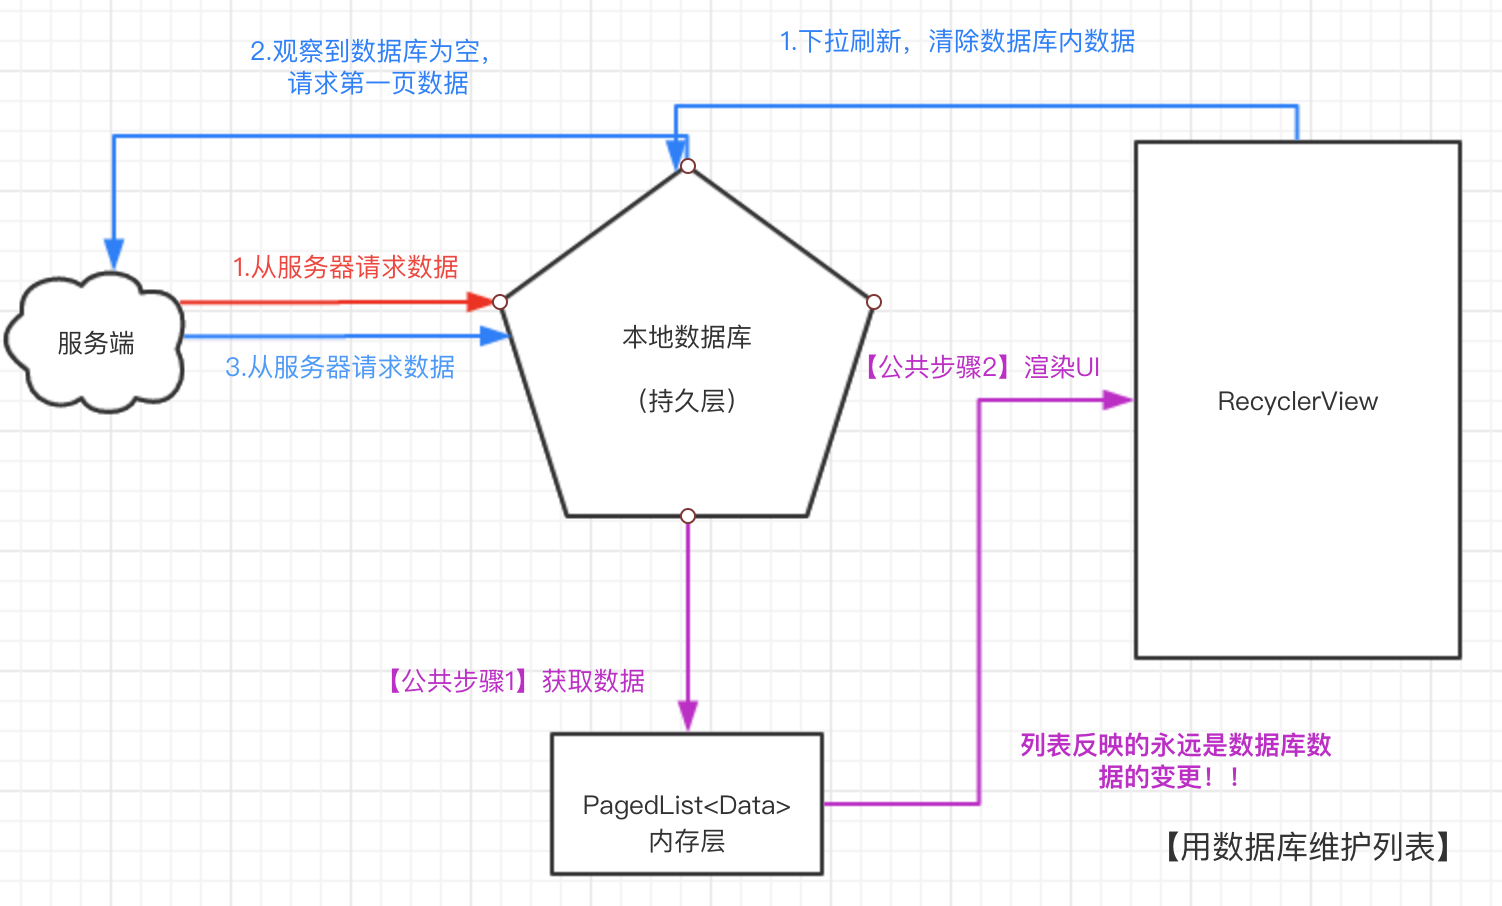
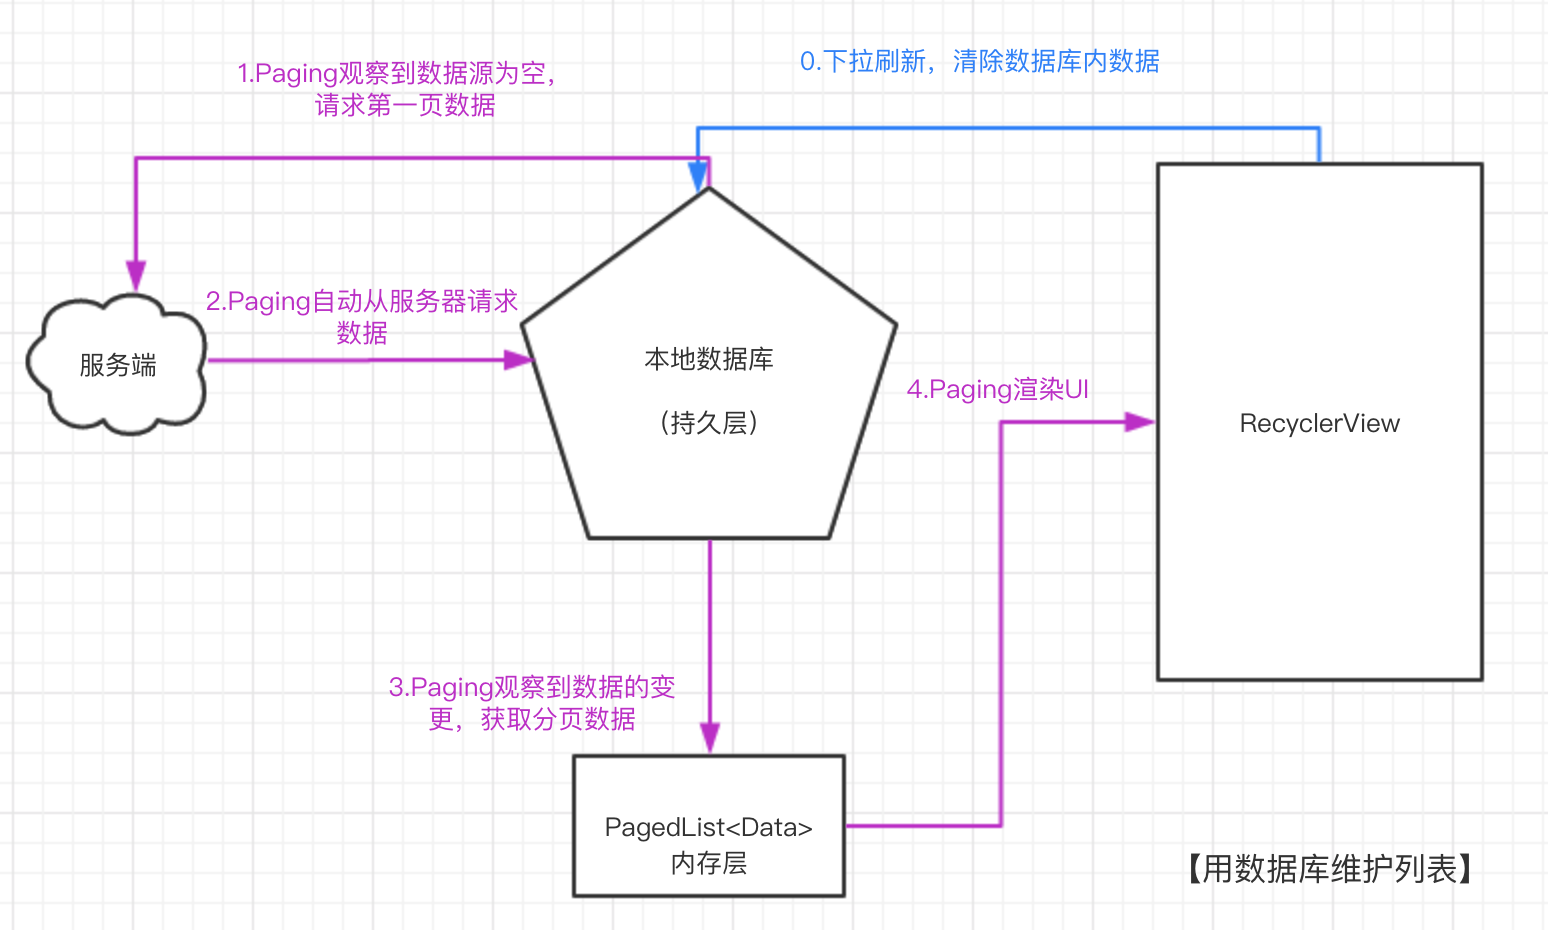
更新文章

diff --git a/src/Android-Jetpack/paging_ex/Android官方架构组件Paging-Ex:列表状态的响应式管理.md b/src/Android-Jetpack/paging_ex/Android官方架构组件Paging-Ex:列表状态的响应式管理.md
@@ -16,17 +16,17 @@
 
 这种便利意味着开发者不需要自己持有 **数据源** ，大多数时候这使得开发流程更加便利，但总有偶然，比如这样一个界面：
 
-![图1:为列表点赞]()
+![](https://user-gold-cdn.xitu.io/2019/5/23/16ae54718a4d3e31?w=310&h=552&f=gif&s=285159)
 
 这种需求屡见不鲜，其本质是，列表本身展示服务端返回的列表数据之外，还需要 **本地控制额外的状态**。
 
 什么叫 **额外的状态** ? 我们先用简单的一张图展示没有额外状态的情形，这时，列表的所有UI元素都从服务端获取：
 
-![图2:没有额外的状态]()
+![](https://user-gold-cdn.xitu.io/2019/5/23/16ae54747b175882?w=1316&h=746&f=png&s=253162)
 
 现在我们将上文`Gif`中的点赞效果也通过一张图表示：
 
-![图3:额外的状态]()
+![](https://user-gold-cdn.xitu.io/2019/5/23/16ae5477fd0eed3f?w=1420&h=728&f=png&s=116860)
 
 读者可能还未认识到两种业务场景之间的差异性：对于列表的初始化来讲，所有UI元素都被服务端返回的数据渲染，每条评论是否已经被点赞，服务端都通过`Comment`进行了描述。
 
@@ -96,13 +96,13 @@ class CommentPagedAdapter(
 
 以列表的渲染为例，让我们来看看项目之前的结构：
 
-![之前的架构]
+![](https://user-gold-cdn.xitu.io/2019/5/23/16ae547d4dae75bb?w=1340&h=762&f=png&s=86917)
 
 回到本文，对于`Paging`来讲，我们并无法直接获取数据源，因此对于列表状态的管理，我们需要额外的角色帮助，那就是本地的持久化缓存。
 
 让我们看看添加了持久层之后的结构：
 
-![添加了缓存]
+![](https://user-gold-cdn.xitu.io/2019/5/23/16ae54808194a3a1?w=1562&h=848&f=png&s=126258)
 
 添加了缓存之后，每当我们尝试初始化一个分页列表，框架会从服务器拉取数据，之后数据被存储到了`Room`中。
 
@@ -118,4 +118,120 @@ class CommentPagedAdapter(
 
 现在我们回到文中最初的问题，如何管理列表的状态？
 
-对于一个拥有复杂状态的分页列表，无论是 **服务端** 作为数据源，还是在 **内存中** 额外维护一个状态列表，都不是很好的选择）而现在我们加入了`Room`，并作为列表唯一的数据源，局势发生了怎样微妙的变化呢？
+对于一个拥有复杂状态的分页列表，无论是 **服务端** 作为数据源，还是在 **内存中** 额外维护一个状态列表，都不是很好的选择；而现在我们加入了`Room`，并作为列表唯一的数据源，局势发生了怎样微妙的变化呢？
+
+让我们来看看加入了持久层之后，下拉刷新的逻辑发生了怎样的变化：
+
+![](https://user-gold-cdn.xitu.io/2019/5/23/16ae548519b3c7b7?w=1512&h=992&f=png&s=170628)
+
+* 1.下拉刷新意味着我们需要重置数据，因此我们手动清除了数据库内对应表中的数据；  
+* 2.当表中数据被清空时，`Paging`会自动响应到数据的变化，因为没有了数据，所以`Paging`会自动向服务器请求数据；  
+* 3.数据返回后，会再次将数据存储到数据库中；  
+* 4.这时`Paging`会再次响应到数据库的变化，并将最新的数据渲染到UI上。
+
+看起来逻辑复杂了很多，实际上读者需要明确的是，步骤2、3、4都是我们作为开发者在初始化`Paging`时就配置好的，因此如果用户需要刷新页面，只需要进行第一步的操作即可，即类似这样的一行代码：
+
+```Kotlin
+// 刷新操作，仅需清除表内的列表数据
+fun swipeRefresh() {
+  // 运行一个事务
+  db.runInTransaction {
+      // 清除列表数据
+      db.getDao().clearDataList()
+  }
+}
+```
+
+现在我们将整个流程中，`Paging`自动执行的步骤用紫色标记出来：
+
+![](https://user-gold-cdn.xitu.io/2019/5/23/16ae54882e5084eb?w=1548&h=930&f=png&s=175943)
+
+瞧，除了我们手动执行的逻辑，所有流程都交给了`Paging`去 **响应式** 地执行。
+
+我们总是下意识认为复杂的业务逻辑用过程式的编码更容易实现，`Paging`用事实证明了并非如此——如果说项目中的某个页面追加了下拉刷新的需求，过程式的编码也许会花费更多的时间，并且代码也许会更分散、啰嗦且易出错。
+
+### 3.更灵活、且可高度扩展
+
+接下来分析的是，对分页列表点赞这种相对 **轻量级的行为** 又该如何处理?
+
+答案呼之欲出, 我们依然用熟悉的流程图表示代码的执行步骤：
+
+![](https://user-gold-cdn.xitu.io/2019/5/23/16ae548e84c870ad?w=1496&h=928&f=png&s=160533)
+
+即使是复杂的状态，在这种模式下也不再是难题：首先，我们将数据库对应表中对应评论的`isLike`（是否被点赞）设置为`true`：
+
+```Kotlin
+// 1.对本地的评论数据点赞
+fun likeCommentLocal(comment: Comment) {
+  // 更新评论
+  comment.isLike = true
+  // 将评论更新到数据库中
+  db.runInTransaction {
+     db.getDao().updateLikeComment(o)
+  }
+}
+```
+
+与此同时，我们也向服务器请求接口，告知评论被用户点赞：
+
+```Kotlin
+// 2.对评论点赞
+fun likeCommentRemote(commentId: String) {
+  service.likeComment(commentId)
+  // ....
+}
+```
+
+当数据库中数据发生了变更，`Paging`仍然会响应到数据的更新，并第一时间更新了UI，同时我们也向服务器发起了请求，一个完整的 **点赞** 操作相关的业务代码实现完毕。
+
+有了持久层作为中间件，**代码组织的灵活性大大提升，同时也具备了更高的扩展性**。列表状态的管理不再是问题，诸如 **点赞** 、 **下拉刷新** 、 **侧滑删除** 等等等等，都可以通过对持久层的数据源进行修改，`paging`总是可以第一时间自动响应到变更并更新UI。
+
+也正如`Room`官方文档第一句话所说的，对于`Paging`分页列表（对app也一样）复杂的状态的展示和管理，开发者应该 **将缓存作为列表的唯一真实的数据源**：
+
+> This cache, which serves as your app's single source of truth.
+
+## 代码示例？
+
+如读者所看到的，本文尽量避免展示大篇幅的业务代码，原因有二：
+
+* 1.这会破坏文章整体思路的完整性，没有人喜欢阅读大篇幅、连续的代码片段；
+* 2.实际开发中，项目的业务不同、架构选型不同，代码的实现方式也不尽相同，因此业务级别的代码展示没有意义。
+
+> 比如，对于持久层框架的选型，`Room`、`GreenDao`、`DBFlow`都是非常优秀的框架，对于业务代码的实现，`RxJava`、`LiveData`、协程都是优秀的实现方案...
+
+本文的目的是阐述笔者遇到问题的解决步骤和思路，读者了解整体的方案之后，可以根据实际项目进行技术选型。
+
+当然，如果有相关的疑惑，欢迎参考下面两个项目的具体实现，这是笔者基于上文的`Paging`+`Room`组件，实现了一个简单的`Github`的客户端，本文不细述。
+
+1.`MVVM`架构的Sample: https://github.com/qingmei2/MVVM-Rhine
+
+2.`MVI`架构的Sample:https://github.com/qingmei2/MVI-Rhine
+
+## 系列文章
+
+>  **争取打造 Android Jetpack 讲解的最好的博客系列**：
+>* [Android官方架构组件Lifecycle：生命周期组件详解&原理分析](https://juejin.im/post/5c53beaf51882562e27e5ad9)
+>* [Android官方架构组件ViewModel:从前世今生到追本溯源](https://juejin.im/post/5c047fd3e51d45666017ff86)
+>* [Android官方架构组件LiveData: 观察者模式领域二三事](https://juejin.im/post/5c25753af265da61561f5335)
+>* [Android官方架构组件Paging：分页库的设计美学](https://juejin.im/post/5c53ad9e6fb9a049eb3c5cfd)
+>* [Android官方架构组件Paging-Ex：为分页列表添加Header和Footer](https://juejin.im/post/5caa0052f265da24ea7d3c2c)
+>* [Android官方架构组件Paging-Ex：列表状态的响应式管理](https://juejin.im/post/5ce6ba09e51d4555e372a562)
+>* [Android官方架构组件Navigation：大巧不工的Fragment管理框架](https://juejin.im/post/5c53be3951882562d27416c6)  
+>* [Android官方架构组件DataBinding-Ex:双向绑定篇](https://juejin.im/post/5c3e04b7f265da611b589574)  
+
+> **Android Jetpack 实战篇**：
+>* [开源项目：MVVM+Jetpack实现的Github客户端](https://github.com/qingmei2/MVVM-Rhine)
+>* [开源项目：基于MVVM, MVI+Jetpack实现的Github客户端](https://github.com/qingmei2/MVI-Rhine)
+>* [总结：使用MVVM尝试开发Github客户端及对编程的一些思考](https://juejin.im/post/5be7bbd9f265da61797458cf)
+
+---
+
+## 关于我
+
+Hello，我是[却把清梅嗅](https://github.com/qingmei2)，如果您觉得文章对您有价值，欢迎 ❤，也欢迎关注我的[博客](https://www.jianshu.com/u/df76f81fe3ff)或者[Github](https://github.com/qingmei2)。
+
+如果您觉得文章还差了那么点东西，也请通过**关注**督促我写出更好的文章——万一哪天我进步了呢？
+
+* [我的Android学习体系](https://github.com/qingmei2/android-programming-profile)
+* [关于文章纠错](https://github.com/qingmei2/Programming-life/blob/master/error_collection.md)
+* [关于知识付费](https://github.com/qingmei2/Programming-life/blob/master/appreciation.md)
